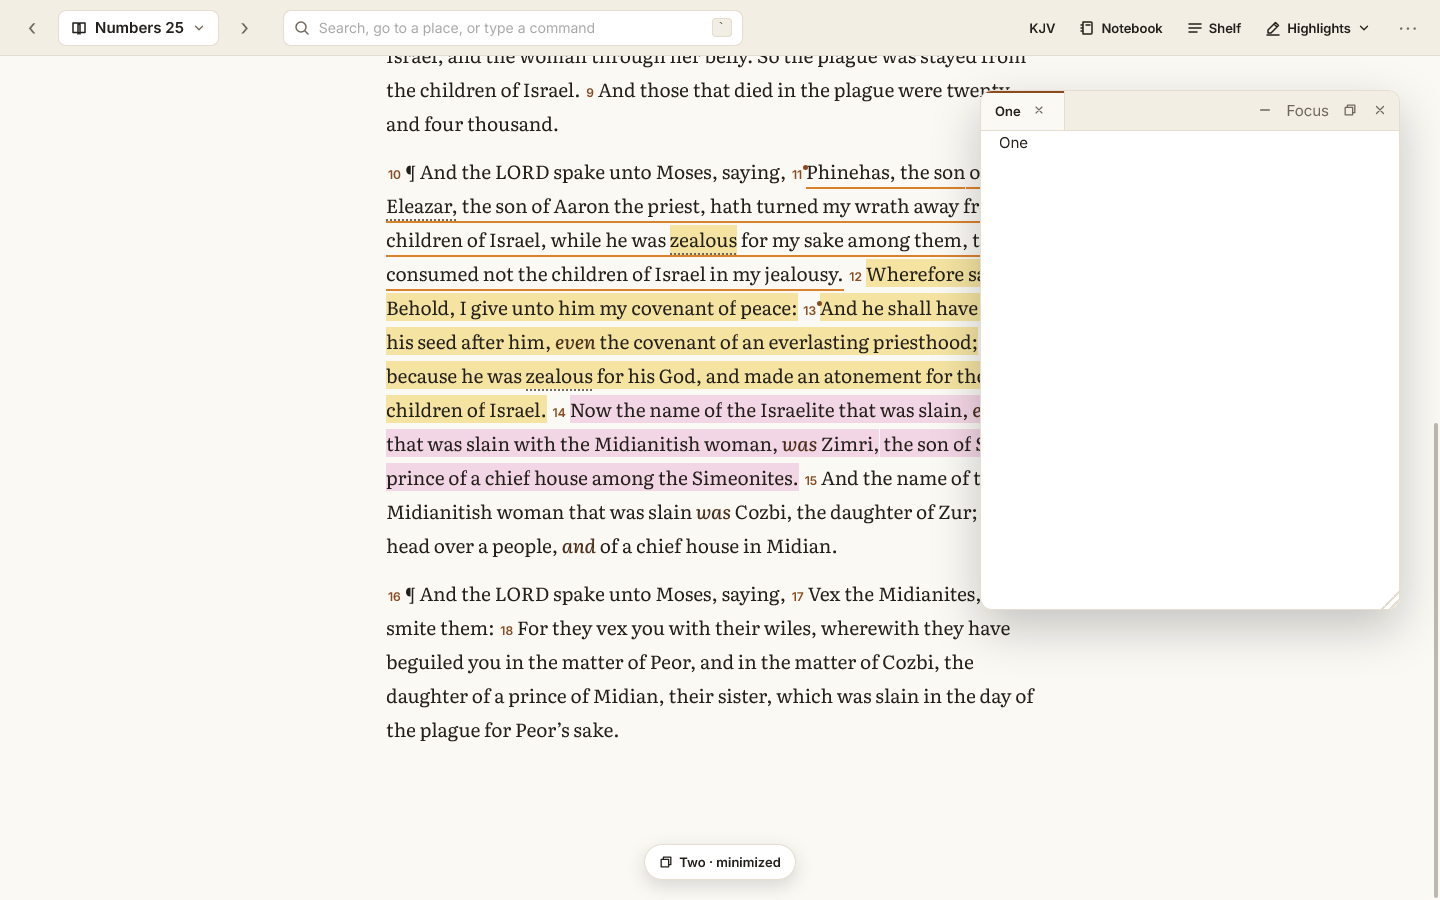
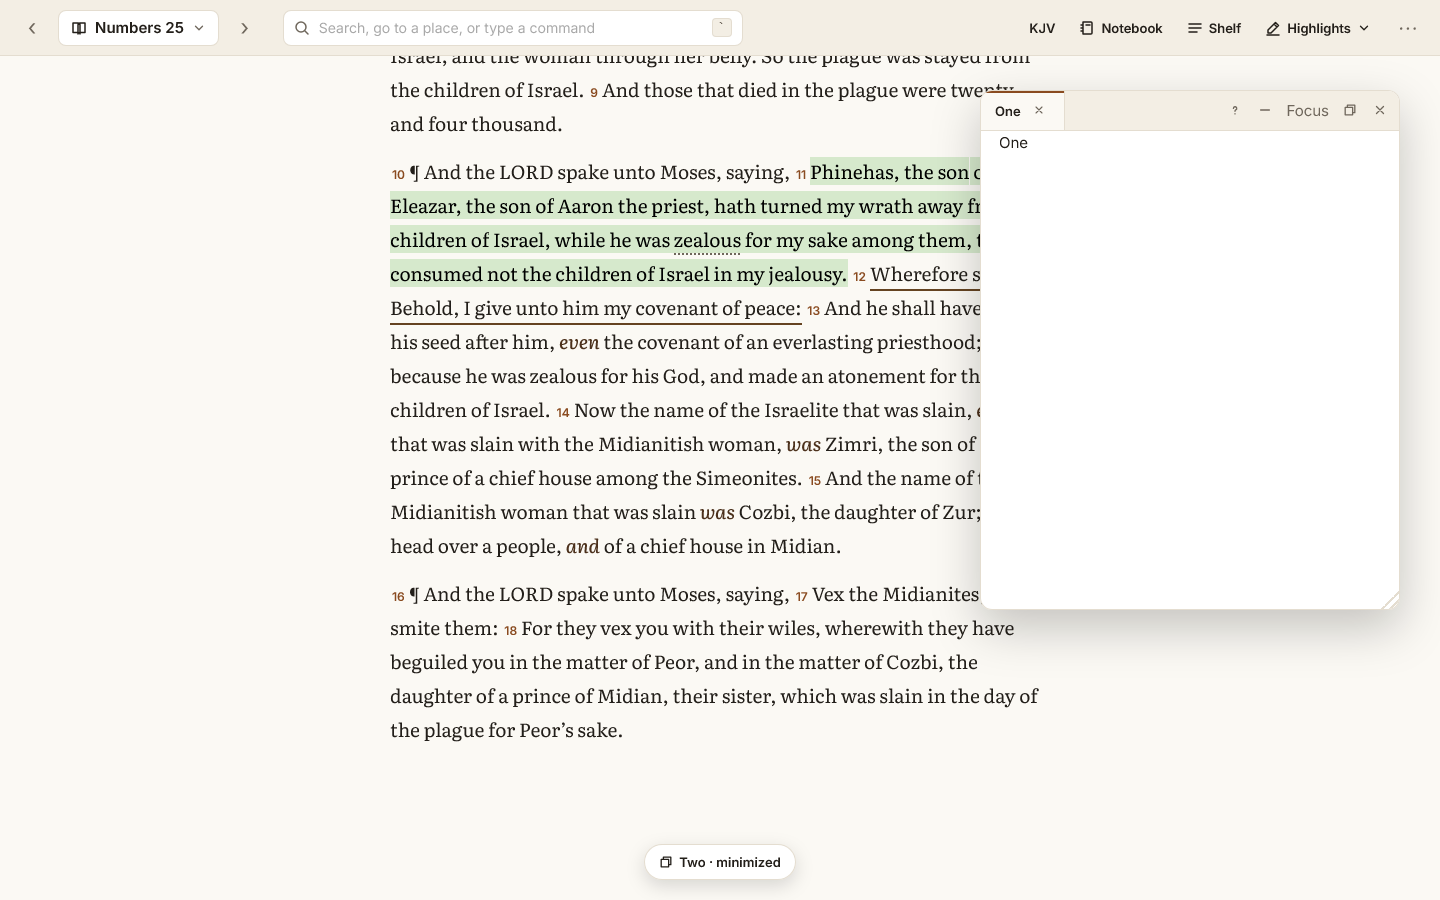
Highlights: words on a highlight in black or white by WCAG contrast, so any color reads on any theme
Replaces the light and dark forms of each color (direction C). The person's decision of 2026-11-16 is
recorded in design/features/highlights with what the build must satisfy; ui/src/hlink.ts picks the ink,
the reader and verse blocks use it, named colors follow the theme through --hl-<name>-ink.
Tests: npm run test:unit (ui/unit/hlink.test.ts) and a WebKit check in light and dark.

Changed region(s): [[0.25, 0.1556, 0.6875, 0.6222], [0.25, 0.6533, 0.7188, 0.84], [0.25, 0.0622, 0.7188, 0.1556]]

diff --git a/ui/src/hlink.ts b/ui/src/hlink.ts
@@ -1,0 +1,55 @@
+// The words on a highlight are drawn in whichever ink, black or white, has the higher WCAG 2.2 contrast
+// ratio with the highlight's color; one of the two always reaches 4.58:1 (WCAG AA). So any color can be used on any theme: no light and dark forms, no fixed list
+// (the person's decision, 2026-11-16; design/features/highlights).
+
+export const NAMED = new Set(['yellow', 'green', 'blue', 'pink', 'orange']);
+export const DARK_INK = '#000000';
+export const LIGHT_INK = '#ffffff';
+
+/** sRGB channels 0-255 of a #rgb / #rrggbb / rgb()/rgba() color, or null. */
+export function rgbOf(c: string): [number, number, number] | null {
+  const s = c.trim();
+  let m = /^#([0-9a-f]{6})([0-9a-f]{2})?$/i.exec(s);
+  if (m) return [0, 2, 4].map(i => parseInt(m![1].slice(i, i + 2), 16)) as [number, number, number];
+  m = /^#([0-9a-f]{3})$/i.exec(s);
+  if (m) return [0, 1, 2].map(i => parseInt(m![1][i] + m![1][i], 16)) as [number, number, number];
+  m = /^rgba?\(\s*([\d.]+)[\s,]+([\d.]+)[\s,]+([\d.]+)/i.exec(s);
+  if (m) return [+m[1], +m[2], +m[3]];
+  return null;
+}
+
+/** WCAG relative luminance, 0 (black) to 1 (white). */
+export function luminance([r, g, b]: [number, number, number]): number {
+  const f = (v: number) => { const x = v / 255; return x <= 0.04045 ? x / 12.92 : ((x + 0.055) / 1.055) ** 2.4; };
+  return 0.2126 * f(r) + 0.7152 * f(g) + 0.0722 * f(b);
+}
+
+/** WCAG contrast ratio of two colors, 1 to 21. */
+export function contrast(a: [number, number, number], b: [number, number, number]): number {
+  const [x, y] = [luminance(a), luminance(b)].sort((p, q) => q - p);
+  return (x + 0.05) / (y + 0.05);
+}
+
+/** The ink for words on this background: the one of the two with the higher contrast. Unknown colors keep the page's. */
+export function inkFor(bg: string): string | null {
+  const rgb = rgbOf(bg);
+  if (!rgb) return null;
+  return contrast(rgb, [0, 0, 0]) >= contrast(rgb, [0xff, 0xff, 0xff]) ? DARK_INK : LIGHT_INK;
+}
+
+/** Inline style for a highlight: its color and its ink. A named color reads its theme variables, so it follows the theme
+ * without redrawing; refreshInks keeps `--hl-<name>-ink` in step. */
+export function hlStyle(color: string): string {
+  if (NAMED.has(color)) return `background-color:var(--hl-${color});color:var(--hl-${color}-ink);`;
+  const ink = inkFor(color);
+  return `background-color:${color};${ink ? `color:${ink};` : ''}`;
+}
+
+/** Set `--hl-<name>-ink` on the root from each named color as the current theme draws it. Run after any theme change. */
+export function refreshInks(root: HTMLElement = document.documentElement) {
+  for (const n of NAMED) {
+    root.style.removeProperty(`--hl-${n}-ink`);
+    const ink = inkFor(getComputedStyle(root).getPropertyValue(`--hl-${n}`));
+    if (ink) root.style.setProperty(`--hl-${n}-ink`, ink);
+  }
+}

diff --git a/ui/src/settings.ts b/ui/src/settings.ts
@@ -8,6 +8,7 @@ import { customize as customizeToolbar } from './toolbar';
 import { guideRows, hasKeyboard, keysRows, manualRows } from './guide';
 import { toast } from './sheets';
 import { h, hoverMode, icon, setHover } from './ui';
+import { refreshInks } from './hlink';
 import { section as layoutsSection } from './layouts';
 import { form, kept, loadKept, remove as removeKept, run as runKept, save as saveKept, topUsed, type Kept } from './mycommands';
 import { perf } from './perf';
@@ -87,11 +88,14 @@ export function applyTheme() {
   for (const [, v] of TOKENS) root().style.removeProperty(v);
   root().style.removeProperty('--font-read');
   root().style.removeProperty('--font-ui');
-  if (!theme) return;
+  if (!theme) { refreshInks(root()); return; }
   for (const [k, v] of TOKENS) if (theme.colors[k]) root().style.setProperty(v, theme.colors[k]);
   if (theme.fonts?.read) root().style.setProperty('--font-read', `"${theme.fonts.read}", serif`);
   if (theme.fonts?.ui) root().style.setProperty('--font-ui', `"${theme.fonts.ui}", system-ui, sans-serif`);
+  refreshInks(root());
 }
+// The system's light or dark can change under a theme that follows it; the inks follow too.
+try { matchMedia('(prefers-color-scheme: dark)').addEventListener('change', () => refreshInks()); } catch { /* no matchMedia */ }
 
 /** The base's own value of a color (what the theme starts from): the variables set aside while the browser is asked. */
 function baseColor(cssVar: string): string {
@@ -676,7 +680,7 @@ function italicsRow(redraw: () => void): HTMLElement {
 
 function marksRow(): HTMLElement {
   const wrap = h('div', 'theme-marks');
-  wrap.append(h('div', 'label', 'Highlight colors'), h('p', 'muted small', 'Name a color for what it stands for. Each color has a light and a dark form, so a highlight follows the theme.'));
+  wrap.append(h('div', 'label', 'Highlight colors'), h('p', 'muted small', 'Name a color for what it stands for. Any color works on any theme: the words on a highlight turn dark or light, whichever reads more clearly on it.'));
   for (const c of ['yellow', 'green', 'blue', 'pink', 'orange']) {
     const r = h('div', 'color-row');
     const i = h('input', 'field') as HTMLInputElement;

diff --git a/ui/unit/hlink.test.ts b/ui/unit/hlink.test.ts
@@ -1,0 +1,29 @@
+// Contrast ink for highlights: any color, either theme (design/features/highlights, 2026-11-16).
+import test from 'node:test';
+import assert from 'node:assert/strict';
+import { contrast, inkFor, rgbOf, hlStyle, DARK_INK, LIGHT_INK } from '../src/hlink.ts';
+
+test('light colors get dark ink, dark colors get light ink', () => {
+  for (const c of ['#ffff00', '#fff3a0', '#a7f3d0', '#ffffff', '#ffb3c6']) assert.equal(inkFor(c), DARK_INK, c);
+  for (const c of ['#000000', '#1e3a8a', '#7a1f1f', '#3b2f00', '#4b0082']) assert.equal(inkFor(c), LIGHT_INK, c);
+});
+
+test('the chosen ink always has the higher contrast, and at least 4.5:1 on any gray (AA for every color)', () => {
+  for (let v = 0; v <= 255; v += 5) {
+    const rgb: [number, number, number] = [v, v, v];
+    const ink = rgbOf(inkFor(`rgb(${v}, ${v}, ${v})`)!)!;
+    const other = rgbOf(ink[0] > 128 ? DARK_INK : LIGHT_INK)!;
+    assert.ok(contrast(rgb, ink) >= contrast(rgb, other));
+    assert.ok(contrast(rgb, ink) >= 4.5, `gray ${v}`);
+  }
+});
+
+test('WCAG ratio of black on white is 21', () => {
+  assert.equal(Math.round(contrast([0, 0, 0], [255, 255, 255])), 21);
+});
+
+test('named colors follow the theme through variables; unknown colors keep the page ink', () => {
+  assert.equal(hlStyle('yellow'), 'background-color:var(--hl-yellow);color:var(--hl-yellow-ink);');
+  assert.equal(hlStyle('#000'), `background-color:#000;color:${LIGHT_INK};`);
+  assert.equal(hlStyle('salmon'), 'background-color:salmon;');
+});

diff --git a/ui/tests/reader.spec.ts b/ui/tests/reader.spec.ts
@@ -384,3 +384,25 @@ test('an unlinked word opens the interlinear for its verse', async ({ page }, in
   await expect(page.locator('.pane-interlinear .pane-title')).toHaveText((word as any).reference);
   await expect(card).toHaveCount(0);
 });
+
+// The words on a highlight are black or white by WCAG contrast with its color, in either theme (highlights, 2026-11-16).
+test('highlighted words take the higher-contrast ink, light and dark', async ({ page }) => {
+  for (const scheme of ['light', 'dark'] as const) {
+    await page.emulateMedia({ colorScheme: scheme });
+    await ready(page);
+    const r = await page.evaluate(() => {
+      const lum = (c: string) => {
+        const [r, g, b] = c.match(/[\d.]+/g)!.slice(0, 3).map(Number).map(v => { const x = v / 255; return x <= 0.04045 ? x / 12.92 : ((x + 0.055) / 1.055) ** 2.4; });
+        return 0.2126 * r + 0.7152 * g + 0.0722 * b;
+      };
+      const ratio = (a: number, b: number) => (Math.max(a, b) + 0.05) / (Math.min(a, b) + 0.05);
+      return [...document.querySelectorAll<HTMLElement>('.w.hl')].slice(0, 20).map(e => {
+        const s = getComputedStyle(e);
+        const bg = lum(s.backgroundColor), ink = lum(s.color);
+        return { ink: s.color, ok: ratio(bg, ink) >= ratio(bg, 1 - ink) && ratio(bg, ink) >= 4.5 };
+      });
+    });
+    expect(r.length).toBeGreaterThan(0);
+    for (const x of r) { expect(x.ok).toBe(true); expect(['rgb(0, 0, 0)', 'rgb(255, 255, 255)']).toContain(x.ink); }
+  }
+});

diff --git a/ui/src/reader.ts b/ui/src/reader.ts
@@ -25,6 +25,7 @@ export interface Drawn {
   more: () => boolean;           // draws the next part; false when the chapter is complete
 }
 
+import { hlStyle } from './hlink';
 const COLORS = new Set(['yellow', 'green', 'blue', 'pink', 'orange']);
 const esc = (s: string) => s.replace(/[&<>"]/g, c => ({ '&': '&amp;', '<': '&lt;', '>': '&gt;', '"': '&quot;' }[c]!));
 const threadColor = (t: Mark) => (COLORS.has(t.color || '') ? `var(--thread-${t.color})` : t.color || 'var(--thread-a)');
@@ -53,7 +54,7 @@ const marked = (m: Look) => !!m.hl || m.th.length > 0 || m.note;
 // background without moving the text); a highlight is the background color.
 function styleOf(m: Look): string {
   let s = '';
-  if (m.hl) s += `background-color:${COLORS.has(m.hl) ? `var(--hl-${m.hl})` : m.hl};`;
+  if (m.hl) s += hlStyle(m.hl);
   if (m.th.length) {
     s += `background-image:${m.th.map(col => `linear-gradient(${col},${col})`).join(',')};`;
     s += `background-position:${m.th.map((_, j) => `0 calc(100% - ${j * 4}px)`).join(',')};padding-bottom:${m.th.length * 4}px;`;

diff --git a/ui/src/verses.ts b/ui/src/verses.ts
@@ -22,8 +22,7 @@ export interface Run { t: string; hl?: string }
 export interface MarkedVerse { ref: string; book: string; code: string; c: number; v: number; text: string; runs: Run[] }
 export interface Marked { label: string; version: string; verses: MarkedVerse[] }
 
-const COLORS = new Set(['yellow', 'green', 'blue', 'pink', 'orange']);
-const hlColor = (c: string) => (COLORS.has(c) ? `var(--hl-${c})` : c);
+import { hlStyle } from './hlink';
 
 /** Verses drawn verbatim, each with its number: as a paragraph (one after another) or a verse to a line. The person's
  * highlights are on the words, as in the reader (none while the highlights layer is hidden). */
@@ -41,7 +40,7 @@ export function drawVerses(verses: MarkedVerse[], lines: boolean): HTMLElement {
     for (const r of v.runs) {
       if (r.hl && showHl) {
         const m = h('span', 'sv-hl', r.t);
-        m.style.backgroundColor = hlColor(r.hl);
+        m.style.cssText = hlStyle(r.hl);
         t.append(m);
       } else t.append(r.t);
     }

diff --git a/ui/src/main.ts b/ui/src/main.ts
@@ -32,6 +32,7 @@ import { openDocuments } from './documents';
 import { parse, runLine, written } from './actions';
 import { setupIfNeeded } from './setup';
 import { createReadAloud } from './listen';
+import { refreshInks } from './hlink';
 
 const $ = <T extends HTMLElement = HTMLElement>(id: string) => document.getElementById(id) as T;
 const reader = $('reader'), scroller = $('scroller');
@@ -1191,6 +1192,7 @@ async function start() {
     document.documentElement.dataset.hover = localStorage.getItem('wb.hover') || 'off';
     setSize(+(localStorage.getItem(SIZE_STORE) || 100));
   } catch { /* defaults */ }
+  refreshInks();
   initPanes($('dock'));
   dock.keepPlace = () => {
     const at = drawn ? topVerse() : null;

diff --git a/design/features/highlights/README.md b/design/features/highlights/README.md
@@ -1,6 +1,6 @@
 # Highlights and the palette
 
-**State:** exploring · **Sheets:** `python design/features/highlights/highlights.py` writes `highlights.figcraft` and
+**State:** exploring; the ink on a highlight *accepted* (2026-11-16, below) · **Sheets:** `python design/features/highlights/highlights.py` writes `highlights.figcraft` and
 `highlights.pdf` (the board, one vector page) · Nothing here is built yet.
 
 Highlights and the palette were built before `design/features/` existed. This folder designs them for the first time.
@@ -18,6 +18,28 @@ The board (and its PDF) holds only these windows, grouped by part. Superseded wi
 | Colors: today, names, light and dark | R1 (today), R2, R3 (names, the Highlights pane), R6, R7 (light and dark forms) | |
 | Layers | H15-H19 (seeing the layers), R5 (which layer a new highlight goes in) | R4 (by H10 and H18) |
 | When everything is colored | H8-H14 | |
+
+## Decision (2026-11-16): the words' ink follows contrast; any color on any theme
+
+The person: instead of a light and a dark form of each color, or a limit on how many colors can be used, the words on a
+highlight change color by current contrast standards, so any color can be used on any theme.
+
+- This replaces **C** (R6, R7): no color is kept as a pair, and nothing works out a "dark form". Finding 31da is answered
+  by the words staying readable on the color the person chose, in either theme.
+- No list limits which colors a highlight may be. The five named colors stay as quick picks and theme tokens.
+
+### What the build must satisfy (the ink)
+
+1. Words on a highlight are drawn in black or white, whichever has the higher WCAG 2.2 contrast ratio with the
+   highlight's color. One of the two always reaches at least 4.58:1, so every color meets WCAG AA for body text.
+2. It holds wherever the person's highlights are drawn on scripture: the reader and verse blocks in pages.
+3. A named color is drawn from the theme's token and its ink follows the theme (and the system's light or dark) without
+   reloading the chapter.
+4. A color the app cannot read as sRGB keeps the page's own ink.
+5. Settings › Highlight colors no longer speaks of light and dark forms.
+6. Tests: `npm run test:unit` (`ui/unit/hlink.test.ts`) checks the choice, the ratio and AA across every gray.
+
+Built in `ui/src/hlink.ts` on `feature/highlights`.
 
 ## What exists today (in code, 2026-11-11)
 
@@ -137,6 +159,7 @@ designs seeing them as a whole. Drawn on John 3:14-21 with a sample of four year
 | 1 | 2026-11-11 | R1-R7 | Today; A colors with names and a Highlights pane; B layers by year with an eye per layer and per kind of mark; C light and dark forms for every color | — |
 | 2 | 2026-11-12 | H8-H14 | when everything is colored: a lens, this year only, fading, a quiet reading mode, many layers on a verse | waiting |
 | 3 | 2026-11-12 | H15-H19 | seeing the layers: two years side by side, a year slider, the layers overview, one layer alone | waiting |
+| — | 2026-11-16 | — | the person's decision: ink by contrast replaces C's light and dark forms | accepted, built |
 
 ## Data the sheets show
 

diff --git a/design/features/coverage.md b/design/features/coverage.md
@@ -20,7 +20,7 @@ A new button or command gets a row here, and its folder, before it is built.
 | Top bar and the command box | suggestions as you type, kept commands, the ⋯ menu | [command](command/README.md) | exploring |
 | Reader | verses, versions, marks, selection | [reader](reader/README.md) | exploring |
 | Word sheet, verse sheet, hover card | a card that moves, a verse alone, hover | [words](words/README.md) | exploring |
-| Highlights and the palette | colors with names, layers by year, light and dark forms | [highlights](highlights/README.md) | exploring |
+| Highlights and the palette | colors with names, layers by year; words' ink by contrast, any color on any theme | [highlights](highlights/README.md) | exploring (ink accepted 2026-11-16) |
 | Notebook: pages, Pinned, blocks | folders, the library drawer | [library](library/README.md) | exploring |
 | Shelf and sets, bookmarks (Keep) | Keep on anything, the folder picker, a folder opened | [library](library/README.md) | exploring |
 | Threads | a thread as a colored folder (A), a page with Places (B), or a layer (C) | [threads](threads/README.md) | exploring |
